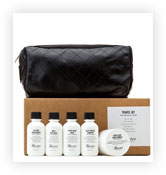
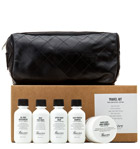
fixed images, image-sizes

diff --git a/catalog-item.html b/catalog-item.html
@@ -31,12 +31,12 @@
             <section class="product-photos">
                 <h2 class="visually-hidden">Изображения товара</h2>
                 <p class="product-photo-full">
-                    <img src="img/Product1_Big.jpg" width="486" height="524" alt="Набор для путешествий «Baxter of California»">
+                    <img src="img/Product1_Big.jpg" width="460" height="498" alt="Набор для путешествий «Baxter of California»">
                 </p>
                 <ul class="product-photo-preview">
-                    <li><img src="img/Product1_small1.jpg" width="166" height="175" alt="Фото в анфас"></li>
-                    <li><img src="img/Product1_small2.jpg" width="166" height="175" alt="Фото в профиль"></li>
-                    <li><img src="img/Product1_small3.jpg" width="166" height="175" alt="Фото отдельной части"></li>
+                    <li><img src="img/Product1_small1.jpg" width="140" height="149" alt="Фото в анфас"></li>
+                    <li><img src="img/Product1_small2.jpg" width="140" height="149" alt="Фото в профиль"></li>
+                    <li><img src="img/Product1_small3.jpg" width="140" height="149" alt="Фото отдельной части"></li>
                 </ul>                
             </section>
             <section class="product-info">

diff --git a/index.html b/index.html
@@ -7,7 +7,7 @@
     <body>
         <header class="main-header">
             <nav class="main-navigation">
-                <a class="main-header-logo"><img src="img/index-logo.png" width="371" height="155" alt="Логотип Барбершоп «Бородинский»"></a>
+                <a class="main-header-logo"><img src="img/index-logo.svg" width="371" height="155" alt="Логотип Барбершоп «Бородинский»"></a>
                 <ul class="site-navigation">
                     <li><a href="#">Информация</a></li>
                     <li><a href="#">Новости</a></li>
